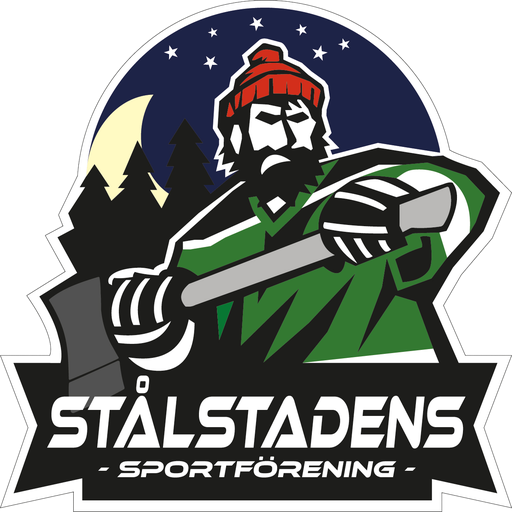
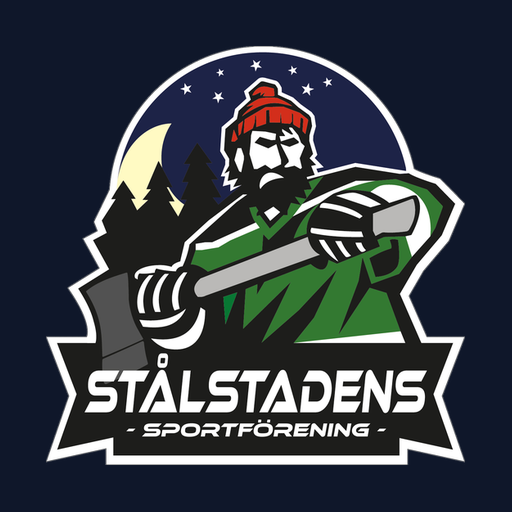
true message

diff --git a/client/public/sw.js b/client/public/sw.js
@@ -1,11 +1,14 @@
 // Service Worker for Stålstadens Lineup PWA
-// This enables the "Install App" prompt in Chrome and other browsers
+// Enables "Install App" prompt and offline caching
 
-const CACHE_NAME = 'stalstadens-lineup-v1';
+const CACHE_NAME = 'stalstadens-lineup-v2';
 
 // Assets to pre-cache for offline shell
 const PRECACHE_URLS = [
   '/',
+  '/manifest.json',
+  '/pwa-icon-192.png',
+  '/pwa-icon-512.png',
 ];
 
 // Install event - pre-cache essential assets
@@ -41,11 +44,10 @@ self.addEventListener('fetch', (event) => {
   // Skip non-GET requests
   if (event.request.method !== 'GET') return;
 
-  // Skip API calls and OAuth routes
+  // Skip API calls, SSE, and OAuth routes
   const url = new URL(event.request.url);
-  if (url.pathname.startsWith('/api/') || url.pathname.startsWith('')) {
-    return;
-  }
+  if (url.pathname.startsWith('/api/')) return;
+  if (url.pathname.startsWith('/sse')) return;
 
   event.respondWith(
     fetch(event.request)

diff --git a/todo.md b/todo.md
@@ -165,3 +165,5 @@
 ## Bugfix
 - [x] Fix drag-and-drop: spelare flyger tillbaka till mitten istället för att stanna på sin plats (påverkar även Auto-knappen)
 - [x] BUGG: Drag-and-drop fortfarande instabilt - spelare far tillbaka efter placering. Auto-knappen fungerar inte alls. (Fixat med version-baserad synk istället för clientId/isReceivingRemote)
+- [x] Fix PWA: rätt namn ("Stålstadens Lineup") och gröna lagets logga som ikon vid "Lägg till på startskärmen"
+- [x] Gör appen installerbar som PWA med service worker
